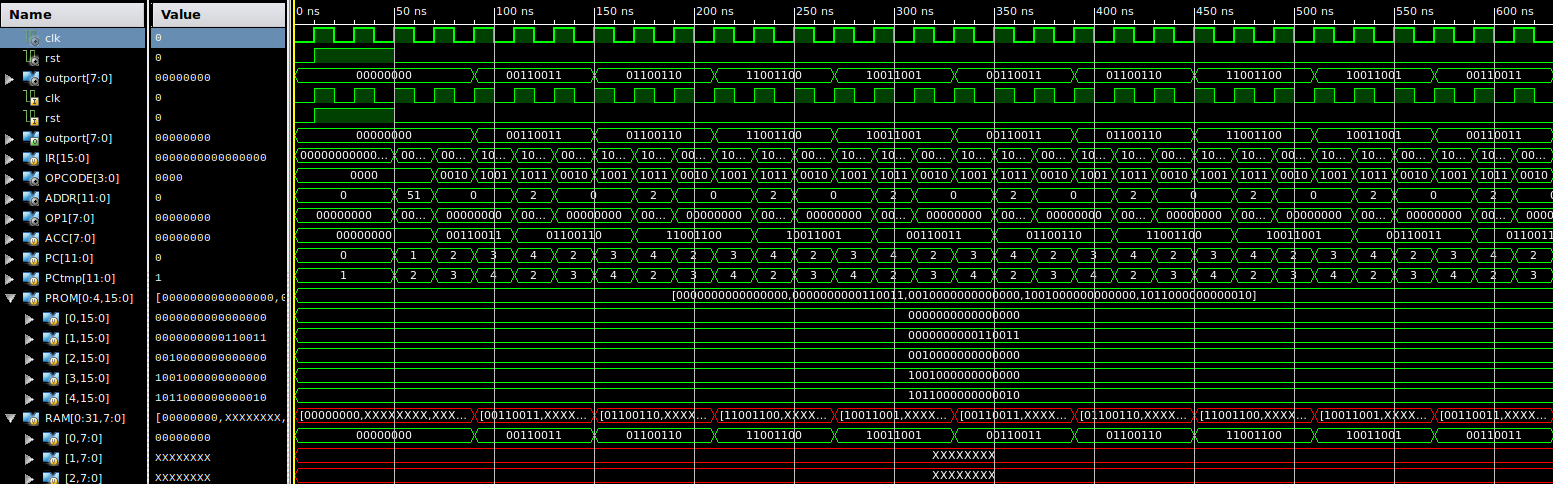
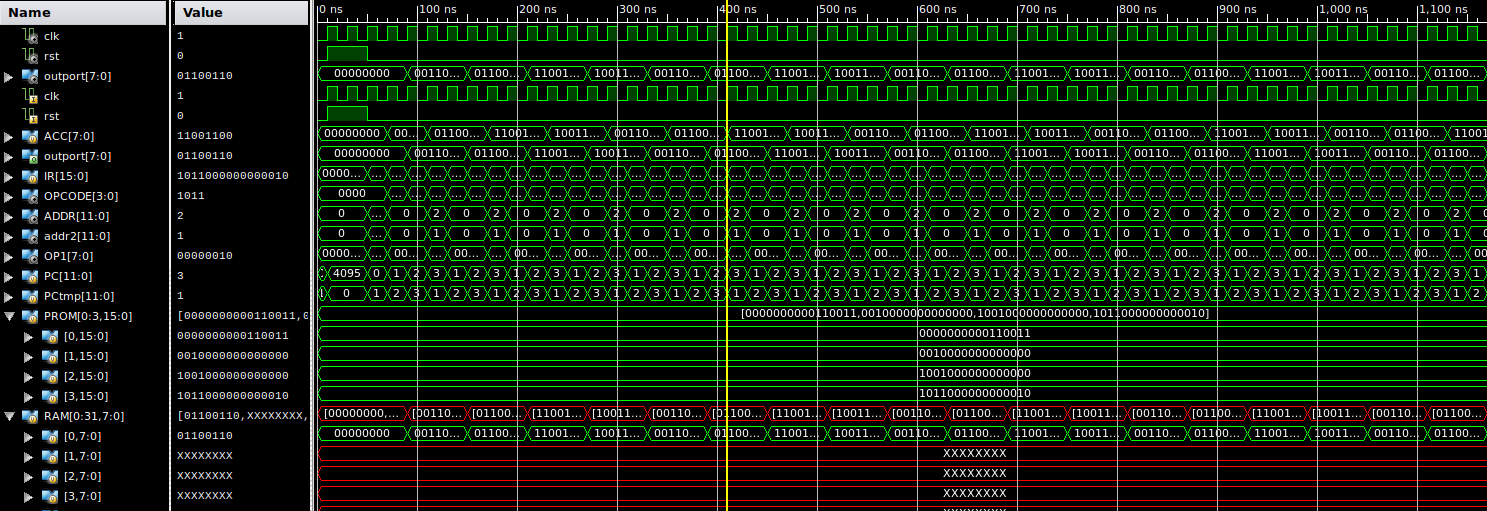
cpu addr/2

diff --git a/doc/praca.tex b/doc/praca.tex
@@ -917,26 +917,30 @@ Jego możliwości przedstawia tabela
 Są instrukcje bezargumentowe jak zaprzeczenie NOT oraz przesunięcia LR i RR. Reszta wymaga argumentu w postaci 12-bitowego adresu pamięci $\{ADDR\}_{12}$ lub 8-bitowego operandu $\{OP1\}_8$. Wartości te zakodowane są bezpośrednio w instrukcji na dalszych bitach.
 
 \begin{lstlisting}[label=CPU,caption=CPU.v]
-module CPU
+module Top
 (
    input clk,
    input rst,
    output [7:0] outport
 );
 
-reg [7:0] ACC;
-reg [11:0] PC, PCtmp;
-reg [15:0] IR;
-wire [3:0] OPCODE=IR[15:12];
-wire [11:0] ADDR=IR[11:0];
-wire [7:0] OP1 = IR[7:0];
+reg [7:0]   ACC = 8'd0;
+reg [11:0]  PC = 12'd0;
+reg [11:0]  PCtmp = 12'd0;
+reg [15:0]  IR = 16'd0;
+wire [3:0]  OPCODE = IR[15:12];;
+wire [7:0]  OP1 = IR[7:0];
+wire [11:0] ADDR = IR[11:0];
+wire [11:0] addr2 = { 1'b0, ADDR[11:1] };
 
-reg [15:0] PROM [0:2047];
-reg [7:0] RAM [0:4095];
-assign outport = RAM[7:0][0];
+reg [15:0] PROM [0:3];
+initial $readmemb("out.bindump", PROM);
+reg [7:0] RAM [0:31];
+initial RAM[0] = 8'd0;
+assign outport = RAM[0][7:0];
 
 always @(posedge clk)
-   if(rst) PC <= 11'h7ff;
+   if(rst) PC <= 12'hfff;
    else begin
       PC <= PCtmp;
       IR <= PROM[PCtmp];
@@ -944,21 +948,18 @@ always @(posedge clk)
 
 always @*
    case(OPCODE)
-      4'b1010: PCtmp=ADDR;
-      4'b1011: if(ACC == 7'd0) PCtmp = ADDR; else PCtmp = PC + 1;
+      4'b1011: PCtmp = addr2;
+      4'b1100: if(ACC == 7'd0) PCtmp = addr2; else PCtmp = PC + 1;
       default: PCtmp = PC + 1;
    endcase
 
-always @(posedge clk) begin
+always @(posedge clk)
    case(OPCODE)
-
       // Load immediate value
-      4'b0000: ACC <= OP1
-
+      4'b0000: ACC <= OP1;
       // Load from / store to RAM
       4'b0001: ACC <= RAM[ADDR];
       4'b0010: RAM[ADDR] <= ACC;
-
       // ALU
       4'b0011: ACC <= ACC + OP1;
       4'b0100: ACC <= ACC - OP1;
